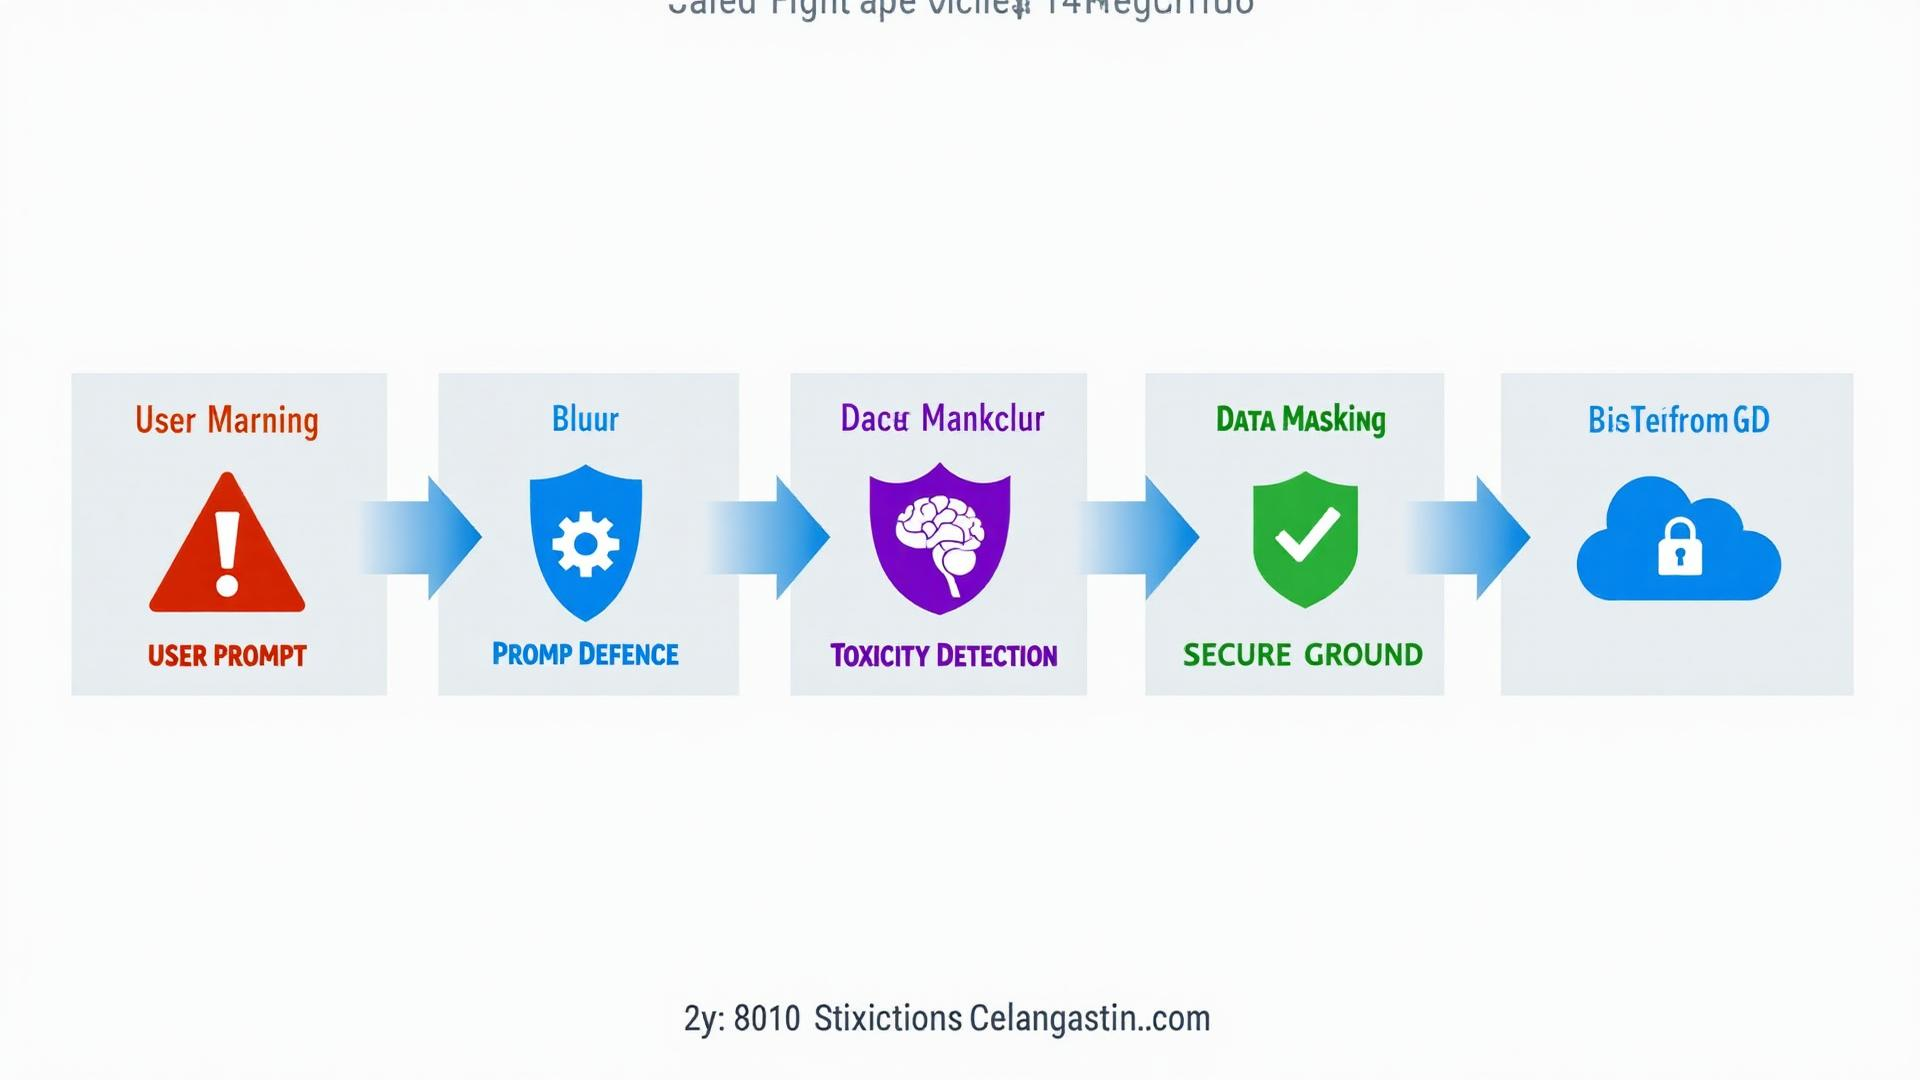
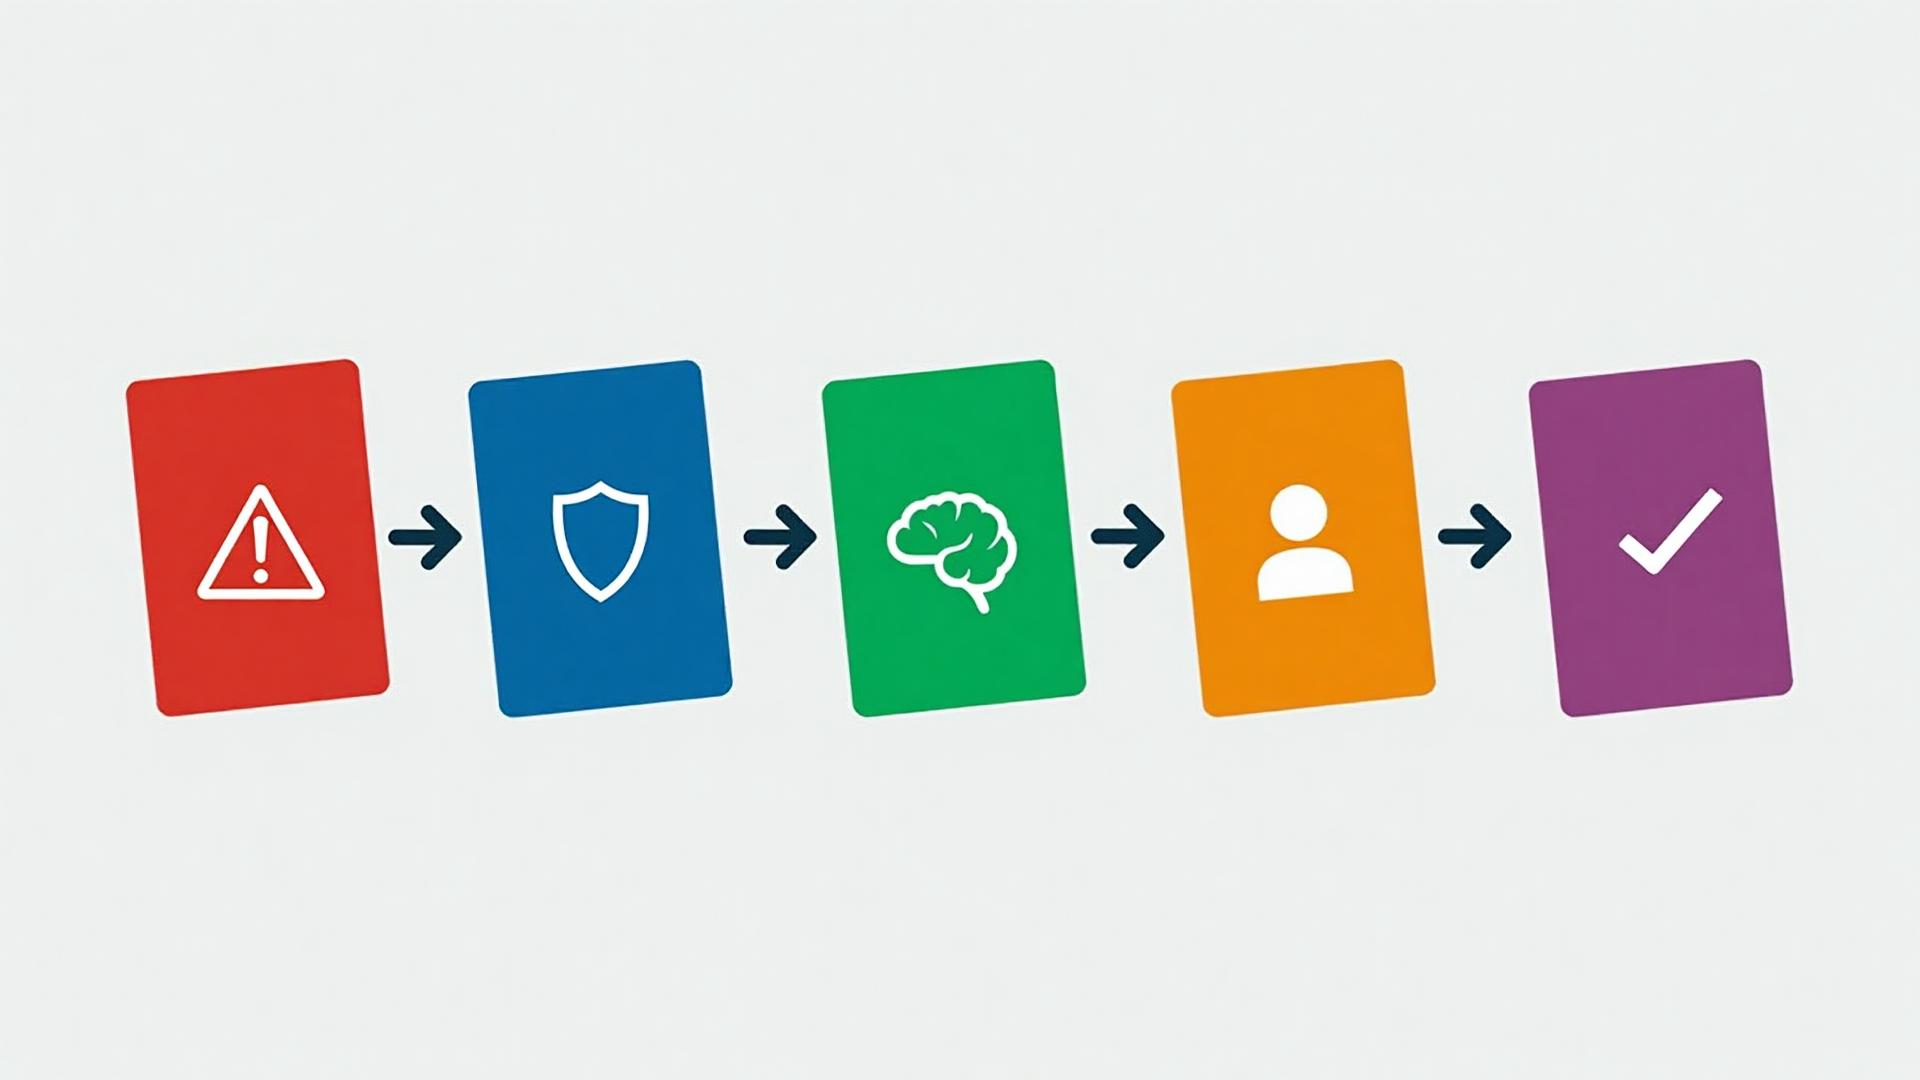
Changes

Changed region(s): [[0.0625, 0.3361, 0.9375, 0.6722], [0.3438, 0.9167, 0.625, 0.9778], [0.3438, 0.0, 0.6562, 0.0306]]

diff --git a/src/components/landing/Features.tsx b/src/components/landing/Features.tsx
@@ -1,4 +1,4 @@
-import { MessageSquare, Calendar, Clock, Shield, Bell, Globe, Smartphone, Zap } from 'lucide-react';
+import { MessageSquare, Calendar, Clock, Shield, Bell, Globe, Smartphone, Zap, Users, HeartHandshake } from 'lucide-react';
 
 const features = [
   {
@@ -17,14 +17,14 @@ const features = [
     description: 'Change date, time, or party size with a simple message anytime.',
   },
   {
-    icon: Bell,
-    title: 'Smart Reminders',
-    description: 'Get timely notifications so you never miss a reservation.',
+    icon: HeartHandshake,
+    title: 'Human When You Need It',
+    description: 'Seamless escalation to real people for complex requests or when you prefer human touch.',
   },
   {
     icon: Shield,
     title: 'Secure & Private',
-    description: 'Your data is encrypted and never shared with third parties.',
+    description: 'Enterprise-grade security with Salesforce Einstein Trust Layer protection.',
   },
   {
     icon: Globe,
@@ -32,9 +32,9 @@ const features = [
     description: 'Book anytime, anywhere. Our AI concierge never sleeps.',
   },
   {
-    icon: Smartphone,
-    title: 'Mobile Friendly',
-    description: 'Perfect experience on any device - phone, tablet, or desktop.',
+    icon: Users,
+    title: 'Dedicated Support Team',
+    description: 'Our human agents are always ready to assist with complaints, special requests, or accessibility needs.',
   },
   {
     icon: Zap,

diff --git a/src/components/landing/FAQ.tsx b/src/components/landing/FAQ.tsx
@@ -26,6 +26,18 @@ const faqs = [
     question: 'How far in advance can I book?',
     answer: 'Booking windows vary by restaurant, but most allow reservations up to 30 days in advance. Some high-demand restaurants may have longer or shorter windows.',
   },
+  {
+    question: 'What if I need to speak with a real person?',
+    answer: 'Agent14 seamlessly connects you with a human representative whenever needed. For complex requests, complaints, accessibility accommodations, or if you simply prefer human assistance, our AI automatically escalates to our dedicated support team. You can also request human help at any time during your conversation.',
+  },
+  {
+    question: 'How does the human escalation process work?',
+    answer: 'Our AI is designed to recognize when human assistance would be more helpful. Triggers include complaints, refund requests, special accommodations, large party bookings over 12 guests, or when you explicitly ask for a person. The handoff is smooth - your conversation history is shared so you do not have to repeat yourself.',
+  },
+  {
+    question: 'Is my data secure with the AI?',
+    answer: 'Absolutely. Agent14 is built on Salesforce Einstein Trust Layer, which includes prompt injection protection, data masking, toxicity detection, and zero data retention by third-party AI providers. Your personal information is encrypted and never shared.',
+  },
 ];
 
 export const FAQ = () => {

diff --git a/docs/ARCHITECTURE.md b/docs/ARCHITECTURE.md
@@ -1128,19 +1128,170 @@ flowchart LR
     class D1,D2,D3 ai
 ```
 
-### Prompt Injection Protection
+### Prompt Injection Protection & Human Escalation
 
 ![Prompt Injection Protection Flow](./prompt-injection-protection.jpg)
 
-**Einstein Trust Layer Security Pipeline (based on Salesforce official documentation):**
+**Einstein Trust Layer Security Pipeline with Human Escalation (icon-only diagram):**
 
-| Stage | Salesforce Component | Description |
-|-------|---------------------|-------------|
-| **1. User Prompt** | Input Capture | User message enters the Agentforce system |
-| **2. Prompt Defense** | Prompt Injection Detection | AI classifier detects malicious prompts using taxonomy-based detection (Pretending/Role-play, Privilege Escalation, Prompt Leakage, Adversarial Suffix, Privacy Attacks, Malicious Code Generation) |
-| **3. Toxicity Detection** | Toxicity Detector | LLM responses are scanned for potentially harmful content |
-| **4. Data Masking** | Secure Data Masking | Sensitive data (PII, credentials) automatically masked before response |
-| **5. Secure Ground** | Zero-Data Retention | Data grounded in trusted company data, never retained by third-party LLMs |
+| Icon | Stage | Salesforce Component | Description |
+|------|-------|---------------------|-------------|
+| ⚠ Red Warning | User Input | Input Capture | User message enters the Agentforce system |
+| 🛡 Blue Shield | Security Check | Prompt Defense | Detects malicious prompts using taxonomy-based detection |
+| 🧠 Green Brain | AI Processing | Einstein Trust Layer | Toxicity detection, semantic analysis, data masking |
+| 👤 Orange Person | Human Escalation | Service Cloud Handoff | Complex requests routed to human agents |
+| ✅ Purple Check | Safe Output | Secure Response | Validated, secure response delivered to user |
+
+---
+
+## Human Escalation Process
+
+Agent14 ensures customers always have access to human support when needed. The escalation process is a core feature, not just a fallback.
+
+### Escalation Architecture
+
+```mermaid
+flowchart TB
+    subgraph UserInput["👤 User Interaction"]
+        Message["User Message"]
+    end
+
+    subgraph AIProcessing["🤖 Agentforce Processing"]
+        Intent["Intent Classification"]
+        Topic["Topic Routing"]
+        Action["Action Execution"]
+    end
+
+    subgraph EscalationCheck["🔍 Escalation Detection"]
+        Trigger["Trigger Evaluation"]
+        Sentiment["Sentiment Analysis"]
+        Complexity["Complexity Check"]
+    end
+
+    subgraph HumanHandoff["👥 Human Handoff"]
+        Queue["Support Queue"]
+        Agent["Human Agent"]
+        Context["Context Transfer"]
+    end
+
+    subgraph Resolution["✅ Resolution"]
+        AIResponse["AI Response"]
+        HumanResponse["Human Response"]
+        Confirmation["Customer Confirmation"]
+    end
+
+    Message --> Intent
+    Intent --> Topic
+    Topic --> EscalationCheck
+    
+    EscalationCheck -->|No Trigger| Action
+    Action --> AIResponse
+    AIResponse --> Confirmation
+    
+    EscalationCheck -->|Trigger Detected| Queue
+    Queue --> Context
+    Context --> Agent
+    Agent --> HumanResponse
+    HumanResponse --> Confirmation
+
+    classDef user fill:#3498db,stroke:#3498db,color:#fff
+    classDef ai fill:#00a1e0,stroke:#00a1e0,color:#fff
+    classDef check fill:#f39c12,stroke:#f39c12,color:#fff
+    classDef human fill:#27ae60,stroke:#27ae60,color:#fff
+    classDef resolve fill:#9b59b6,stroke:#9b59b6,color:#fff
+
+    class Message user
+    class Intent,Topic,Action ai
+    class Trigger,Sentiment,Complexity check
+    class Queue,Agent,Context human
+    class AIResponse,HumanResponse,Confirmation resolve
+```
+
+### Escalation Triggers
+
+| Trigger Category | Specific Triggers | Action |
+|------------------|-------------------|--------|
+| **Explicit Request** | "Speak to a person", "Human please", "Real agent" | Immediate handoff |
+| **Complaints** | Negative sentiment, dissatisfaction expressions | Priority escalation |
+| **Refund Requests** | Cancellation with refund mention | Manager queue |
+| **Accessibility Needs** | Wheelchair, dietary allergies, special accommodations | Specialist queue |
+| **Large Parties** | Bookings over 12 guests | Event coordinator |
+| **Complex Modifications** | Multiple changes, special timing | Senior agent |
+| **Repeated Failures** | 3+ failed AI resolution attempts | Auto-escalate |
+| **VIP Customers** | Loyalty tier Gold/Platinum | Priority human queue |
+
+### Seamless Handoff Process
+
+```mermaid
+sequenceDiagram
+    participant C as Customer
+    participant AI as Agentforce AI
+    participant SC as Service Cloud
+    participant HA as Human Agent
+
+    C->>AI: "I have a complaint about my last visit"
+    AI->>AI: Detect: COMPLAINT trigger
+    AI->>AI: Sentiment: NEGATIVE
+    AI->>C: "I understand you have a concern. Let me connect you with a specialist who can help."
+    AI->>SC: Escalation Request + Full Context
+    SC->>SC: Route to Priority Queue
+    SC->>HA: Assign Case + Conversation History
+    HA->>C: "Hi, I'm Sarah from Agent14 Support. I can see you visited on [date]. How can I help resolve this?"
+    C->>HA: Explains issue
+    HA->>C: "I've arranged [resolution]. Is there anything else?"
+    C->>HA: "No, thank you!"
+    HA->>SC: Close Case - Resolved
+    SC->>AI: Log Resolution for Training
+```
+
+### Context Transfer Protocol
+
+When escalating to a human agent, the following context is automatically transferred:
+
+| Context Item | Description |
+|--------------|-------------|
+| **Conversation History** | Full AI chat transcript |
+| **Customer Profile** | Name, contact, loyalty tier, preferences |
+| **Reservation Details** | Current/past bookings, modifications |
+| **Escalation Reason** | Why AI triggered handoff |
+| **Sentiment Score** | Customer emotion assessment |
+| **Attempted Solutions** | What AI already tried |
+| **Suggested Actions** | AI recommendations for resolution |
+
+### Human Agent Dashboard
+
+Human agents receive escalated cases in Service Cloud with:
+
+- **Real-time Chat Interface**: Continue conversation seamlessly
+- **Customer 360 View**: Complete customer history
+- **AI Suggestions**: Recommended responses and actions
+- **One-Click Actions**: Quick resolution tools
+- **Escalation Timer**: SLA tracking
+- **Manager Override**: Instant supervisor access
+
+### Escalation SLAs
+
+| Priority Level | Response Time | Resolution Target |
+|----------------|---------------|-------------------|
+| **Critical** (VIP complaint) | < 1 minute | < 15 minutes |
+| **High** (Refund, accessibility) | < 3 minutes | < 30 minutes |
+| **Medium** (Complex booking) | < 5 minutes | < 1 hour |
+| **Standard** (General inquiry) | < 10 minutes | < 2 hours |
+
+### Trust Pattern: Human-in-the-Loop
+
+From Salesforce Trust Patterns documentation:
+
+> "We facilitate smooth transitions from agents to humans. Examples include copying a sales manager on AI-generated emails, or providing a dashboard for human oversight."
+
+Agent14 implements this trust pattern through:
+
+1. **Transparency**: Customers always know when they are speaking to AI vs human
+2. **Opt-out**: Customers can request human assistance at any time
+3. **Oversight**: Human managers can monitor AI conversations in real-time
+4. **Audit Trail**: All escalations logged for quality assurance
+
+---
 
 **Salesforce Prompt Injection Taxonomy (from Salesforce AI Research):**
 
